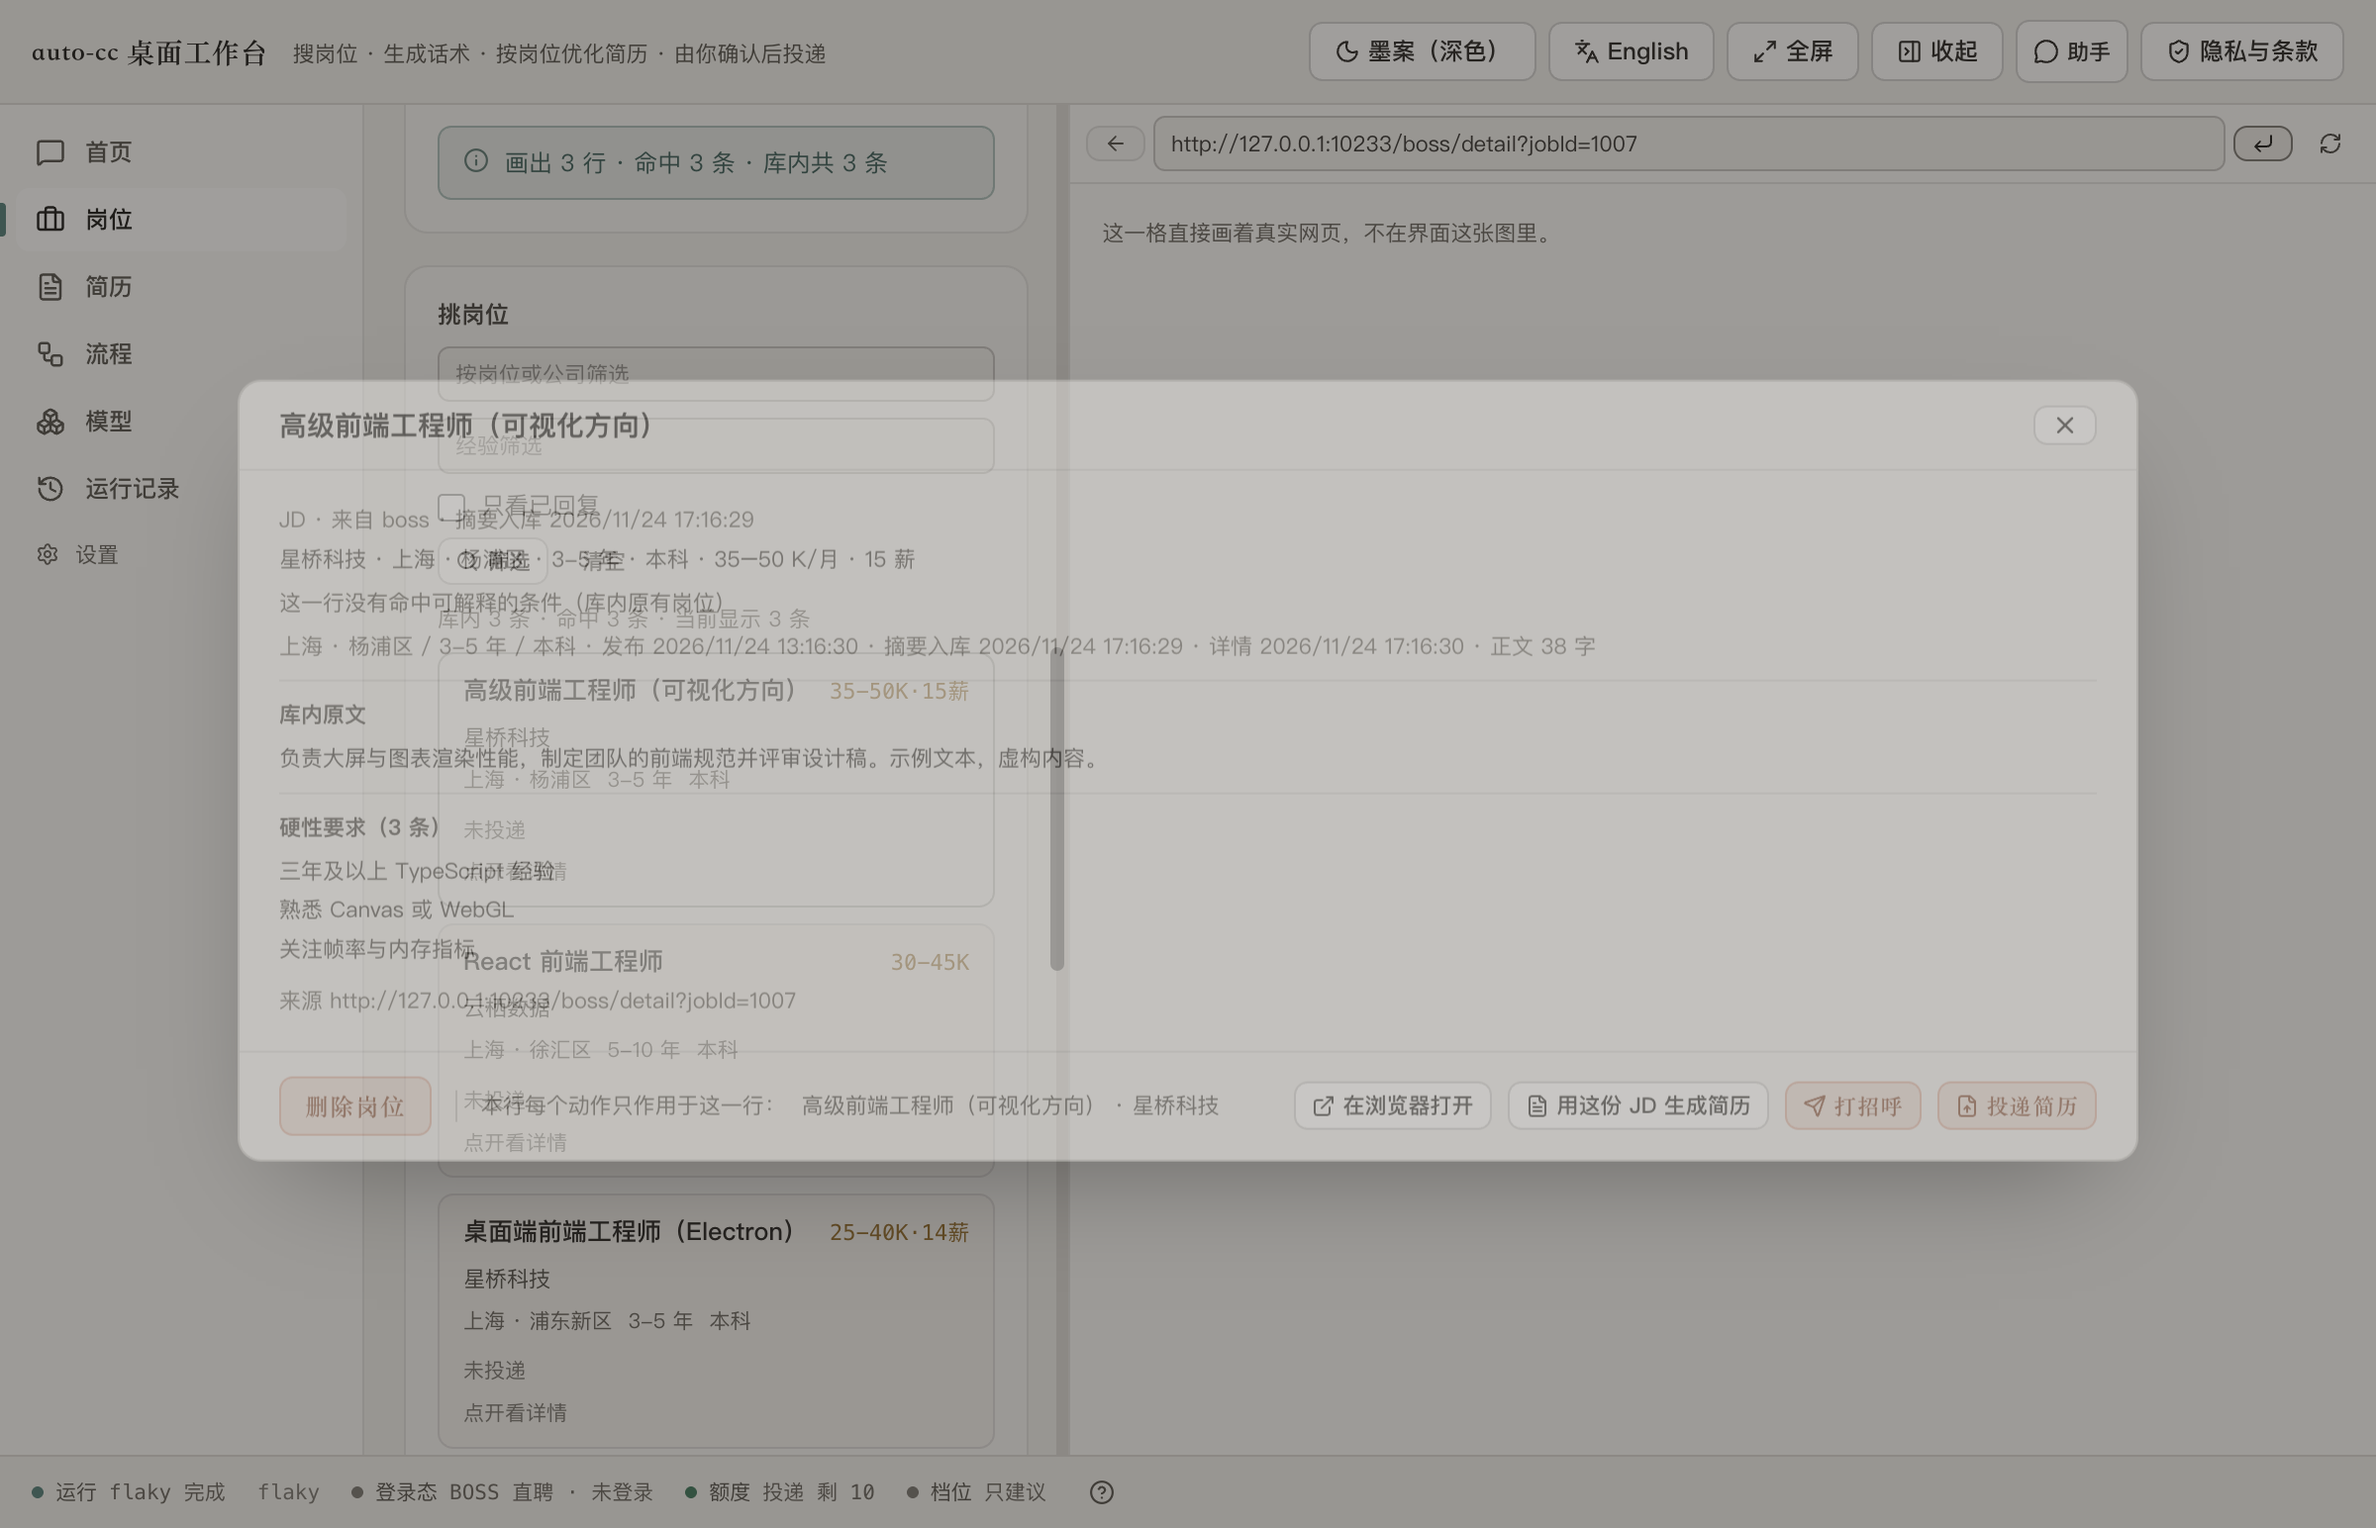
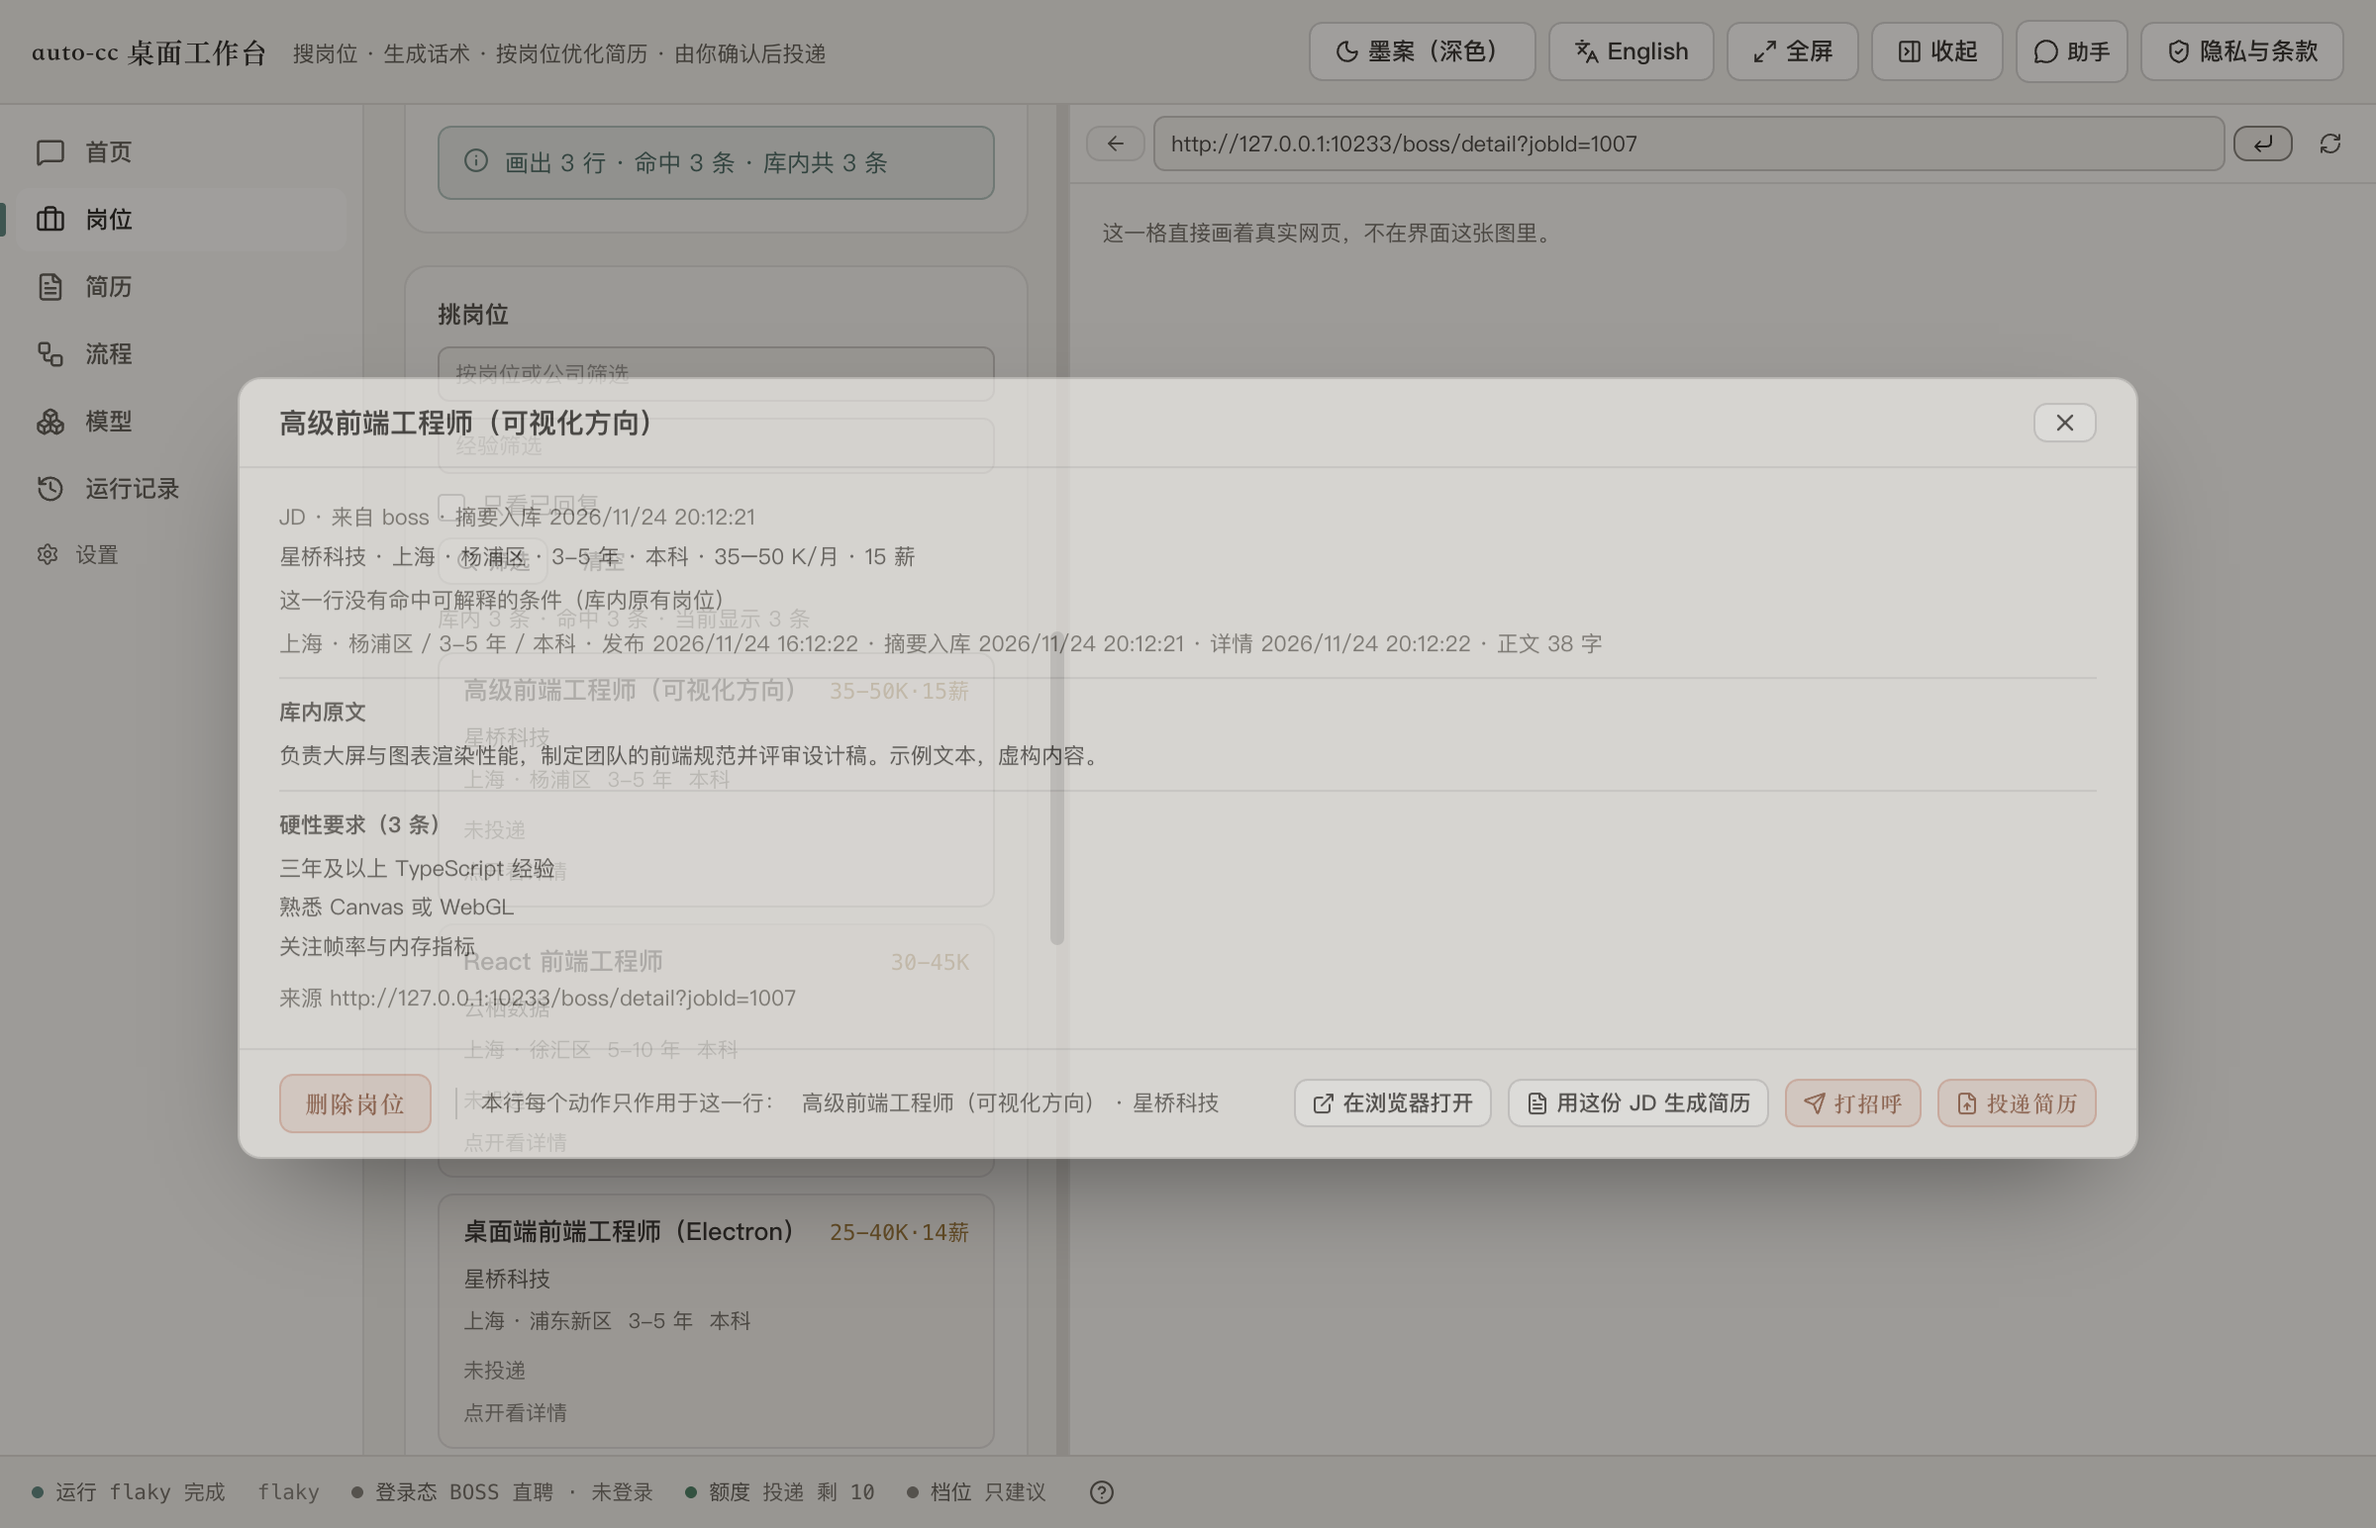
fix(ui): 城市选择器打开即聚焦、关闭回焦触发行
- DeskOptionPicker 打开后 rAF 聚焦搜索框；-done/-back 关闭后一帧回焦触发行
- 行键提到模块级，修掉渲染期 TDZ 导致白屏（真包冒烟曾卡在这里）
- 冒烟脚本把「读库内清单」改页面内点击，避免被助手面板遮挡误判

diff --git a/packages/renderer/src/ui/controls.tsx b/packages/renderer/src/ui/controls.tsx
@@ -1862,6 +1862,7 @@ export function DeskOptionPicker({
   doneText,
   backText,
   clearSearchText,
+  returnFocusSelector,
 }: {
   action: string;
   label: string;
@@ -1876,16 +1877,57 @@ export function DeskOptionPicker({
   backText: string;
   /** 搜不到时的出口文案（「清空搜索」）：与「清除」（清已选值）不是同一只控件。 */
   clearSearchText: string;
+  /**
+   * 关闭后把焦点还给谁（CSS 选择器）。
+   *
+   * 面板打开时触发行常被「替换」而不是并存（城市那一格就是这样），于是面板里找不到可回焦的兄弟节点。
+   * 调用方给一个选择器，关闭后按它回焦；给不出就退化成「找最近的带 data-action 的兄弟」。
+   */
+  returnFocusSelector?: string;
 }) {
   const [query, setQuery] = useState('');
   /** 组字中：输入法还没上屏时不过滤（否则列表会在打字中途被清空成「没有匹配」）。 */
   const [composing, setComposing] = useState(false);
+  /** 搜索框与长列表容器：打开即聚焦、关闭回焦两道动作都挂在这两个 ref 上。 */
+  const searchRef = useRef<HTMLInputElement>(null);
+  const rootRef = useRef<HTMLDivElement>(null);
+  /**
+   * 打开面板就把焦点放进搜索框（2026-11-24 用户报「城市无法输入搜索」）。
+   *
+   * QA 的读数：搜索框本身可聚焦、`search.focus()` 能成功，但打开时 `activeElement` 还是 BODY，
+   * 用户点开直接敲键盘字进不去。这里用 rAF 等面板真正挂上 DOM 再聚焦（同步 focus 会落在旧节点上）。
+   */
+  useEffect(() => {
+    const frame = requestAnimationFrame(() => searchRef.current?.focus());
+    return () => cancelAnimationFrame(frame);
+  }, []);
+  /**
+   * 关闭面板把焦点还给触发它的那一格（键盘用户不该被丢回 BODY）。
+   *
+   * 只有面板自己拿过焦点时才回焦：用户是用鼠标点开、焦点本来在别处时，抢走焦点更烦人。
+   */
+  const closeAndRestoreFocus = (): void => {
+    onClose();
+    // 关闭之后 React 才把触发行换回来（城市那一格是「面板 ↔ 输入框」二选一），同步查 DOM 一定查不到；
+    // 等一帧再回焦，键盘用户才不会被打回 BODY。
+    requestAnimationFrame(() => {
+      const explicit =
+        returnFocusSelector === undefined ? null : document.querySelector<HTMLElement>(returnFocusSelector);
+      const fallback = rootRef.current?.parentElement?.querySelector<HTMLElement>('[data-action]');
+      (explicit ?? fallback)?.focus?.();
+    });
+  };
   const needle = composing ? '' : query.trim().toLowerCase();
   const shown = needle === '' ? labels : labels.filter((entry) => entry.toLowerCase().includes(needle));
   return (
-    <div className="min-w-0 rounded-md border border-line-strong bg-ink-900" data-option-picker={action}>
+    <div ref={rootRef} className="min-w-0 rounded-md border border-line-strong bg-ink-900" data-option-picker={action}>
       <div className="flex min-w-0 items-center gap-2 border-b border-line px-2 py-1">
-        <button type="button" data-action={`${action}-back`} onClick={onClose} className={PICKER_LINK_CLASS}>
+        <button
+          type="button"
+          data-action={`${action}-back`}
+          onClick={closeAndRestoreFocus}
+          className={PICKER_LINK_CLASS}
+        >
           ← {backText}
         </button>
         <span className="min-w-0 flex-1 truncate text-[11px] font-medium text-slate-200">{label}</span>
@@ -1900,6 +1942,7 @@ export function DeskOptionPicker({
       </div>
       <div className="px-2 py-1">
         <input
+          ref={searchRef}
           data-action={`${action}-search`}
           value={query}
           placeholder={searchPlaceholder}
@@ -1946,7 +1989,12 @@ export function DeskOptionPicker({
         )}
       </div>
       <div className="flex justify-end border-t border-line px-2 py-1">
-        <button type="button" data-action={`${action}-done`} onClick={onClose} className={PICKER_DONE_CLASS}>
+        <button
+          type="button"
+          data-action={`${action}-done`}
+          onClick={closeAndRestoreFocus}
+          className={PICKER_DONE_CLASS}
+        >
           {doneText}
         </button>
       </div>

diff --git a/packages/renderer/src/JobLabPanel.tsx b/packages/renderer/src/JobLabPanel.tsx
@@ -62,6 +62,16 @@ import { advanceViewTrail } from './viewTrail';
 /** 进度播报最多留几条：面板是验收入口，不是历史库（与定位实验台的自愈播报同一形状）。 */
 const PROGRESS_LIMIT = 4;
 
+/**
+ * 一行岗位在界面上的稳定键（平台 + 库内 id）。
+ *
+ * 放在模块级而不是组件内 const：`deliverTarget` 这类派生值在渲染期就要用它，
+ * 而组件内 `const` 定义在后面会撞 TDZ（本次真包白屏就是这条）。
+ * @param row 库内的一行
+ * @returns `<platform>-<id>`
+ */
+const rowKey = (row: JobRowView): string => `${row.platform}-${String(row.id)}`;
+
 /** 库内清单一次画多少行：默认 100 条，按 `filter-more` 每次再加 100（服务端上限 500）。 */
 const ROW_DISPLAY_LIMIT = 100;
 const ROW_PAGE_STEP = 100;
@@ -846,7 +856,6 @@ export function JobLabPanel() {
       ? 'NO_SEARCH_PLATFORM'
       : undefined;
   /** 一行的稳定标识：列表 key 与选中态共用这一处来源，不让两处各拼一遍。 */
-  const rowKey = (row: JobRowView): string => `${row.platform}-${String(row.id)}`;
 
   /** 此刻指向的那一行：从 `jobList` 现取；清单换过一批取不到时按"没选"处理，详情与动作段一起收起。 */
   const selectedRow = jobList?.rows.find((row) => rowKey(row) === selectedRowKey);
@@ -977,6 +986,7 @@ export function JobLabPanel() {
                   doneText={t('jd.picker.done')}
                   backText={t('jd.picker.back')}
                   clearSearchText={t('jd.picker.clearSearch')}
+                  returnFocusSelector='[data-action="jd-city"]'
                 />
               </div>
             ) : (
@@ -1097,6 +1107,7 @@ export function JobLabPanel() {
                           doneText={t('jd.picker.done')}
                           backText={t('jd.picker.back')}
                           clearSearchText={t('jd.picker.clearSearch')}
+                          returnFocusSelector={`[data-action="jd-filter-${filter.dimension}"]`}
                         />
                       </div>
                     );

diff --git a/scripts/smoke-dist.ts b/scripts/smoke-dist.ts
@@ -397,7 +397,15 @@ async function main(): Promise<void> {
   // ⑤.5 岗位卡与弹窗：工作流刚抓到的库内岗位必须能在产物界面打开，不停在「库里有了、界面看不着」。
   await bridge.click({ selector: '[data-action="nav-jobs"]' });
   await waitForVisible(bridge, '[data-testid="job-lab"]');
-  await bridge.click({ selector: '[data-action="list"]' });
+  // 这一颗只需要「处理器跑起来把库内清单读出来」，不需要真实鼠标命中：助手面板/滚动位置都可能挡住它，
+  // 受信点击会以「未找到可点击元素」失败而看不出是遮挡。用页面内 click 触发 React 监听。
+  const listClicked = await bridge.evaluate<boolean>(`(() => {
+    const node = document.querySelector('[data-action="list"]');
+    if (!node) return false;
+    node.click();
+    return true;
+  })()`);
+  requireStep('冒烟 5/6 读库内清单键可点', listClicked, `[data-action="list"] 触发=${String(listClicked)}`);
   const cardVisible = await waitForVisible(bridge, '[data-testid="jd-cards"] [data-job-card]');
   requireStep('冒烟 5/6 本地仿站搜岗入库并出卡', cardVisible, `岗位卡可见=${String(cardVisible)}`);
   await bridge.click({ selector: '[data-testid="jd-cards"] [data-job-card]' });
